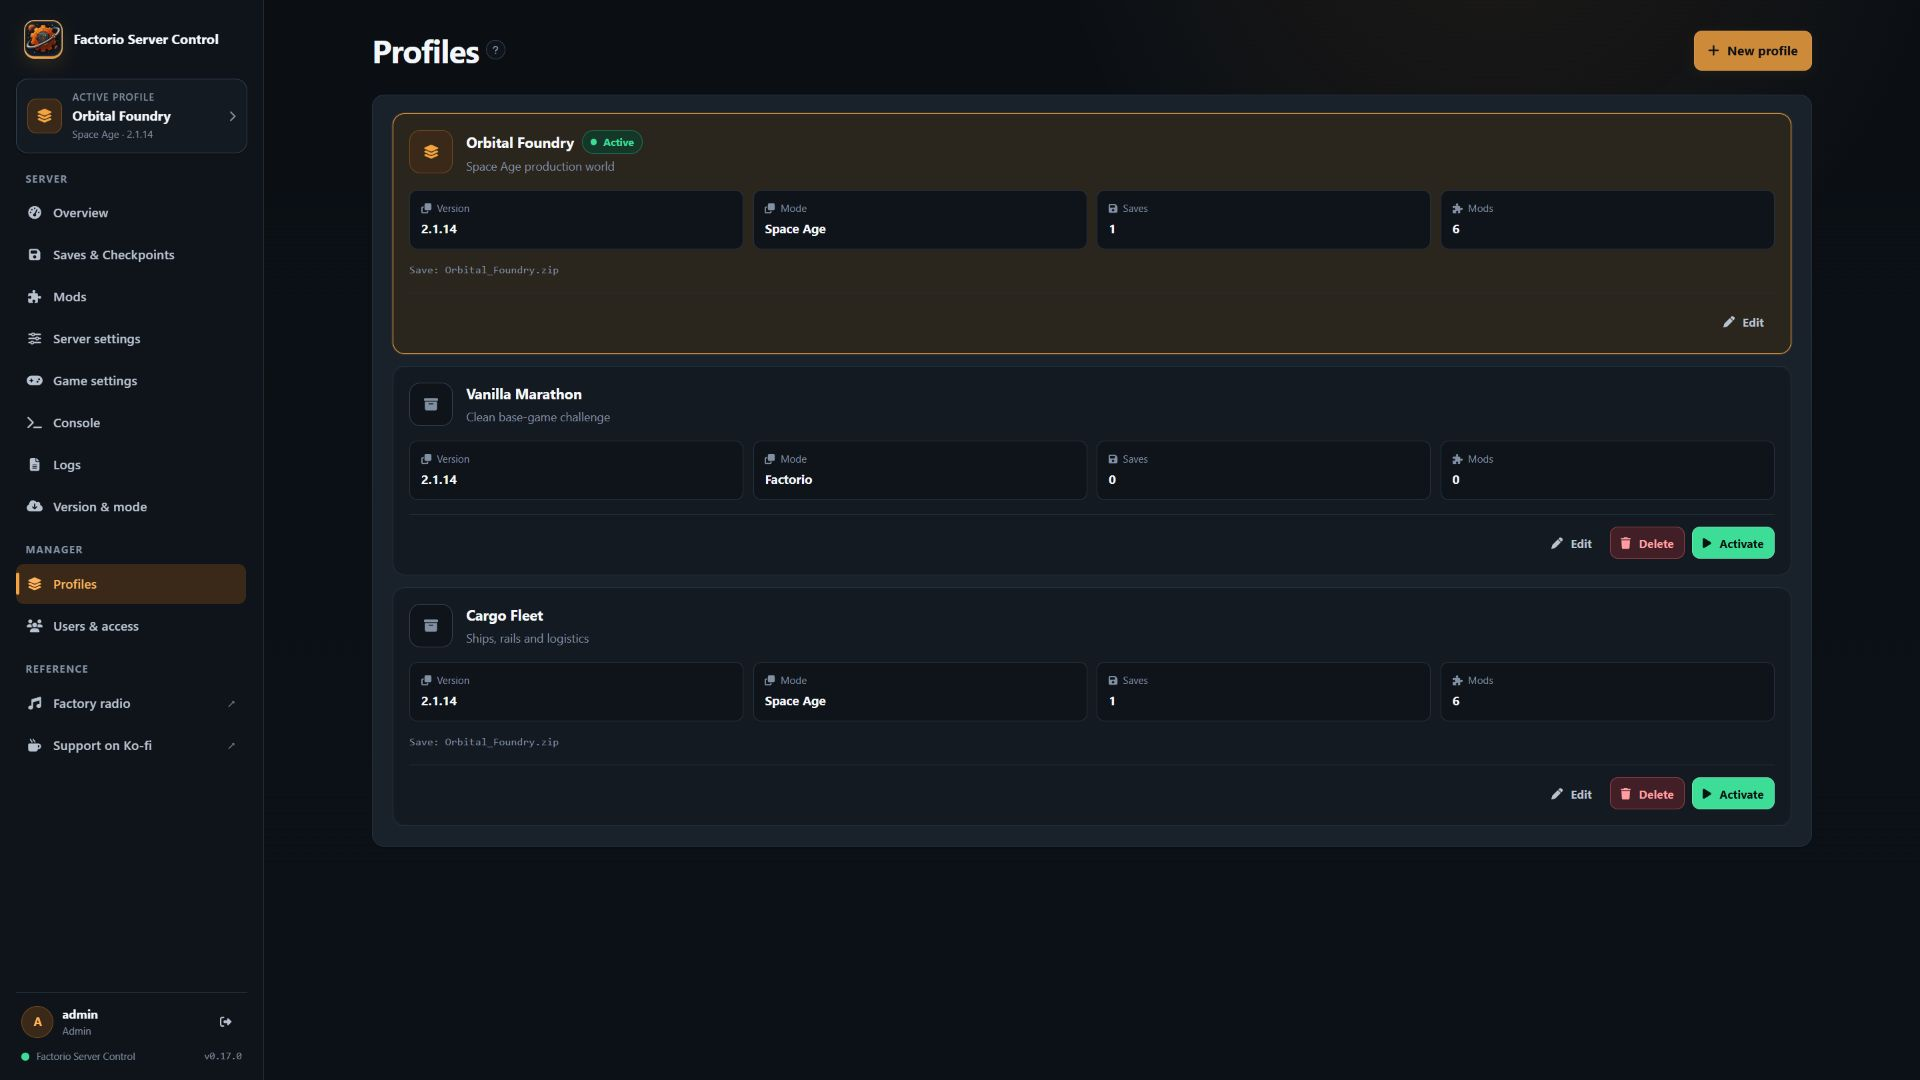
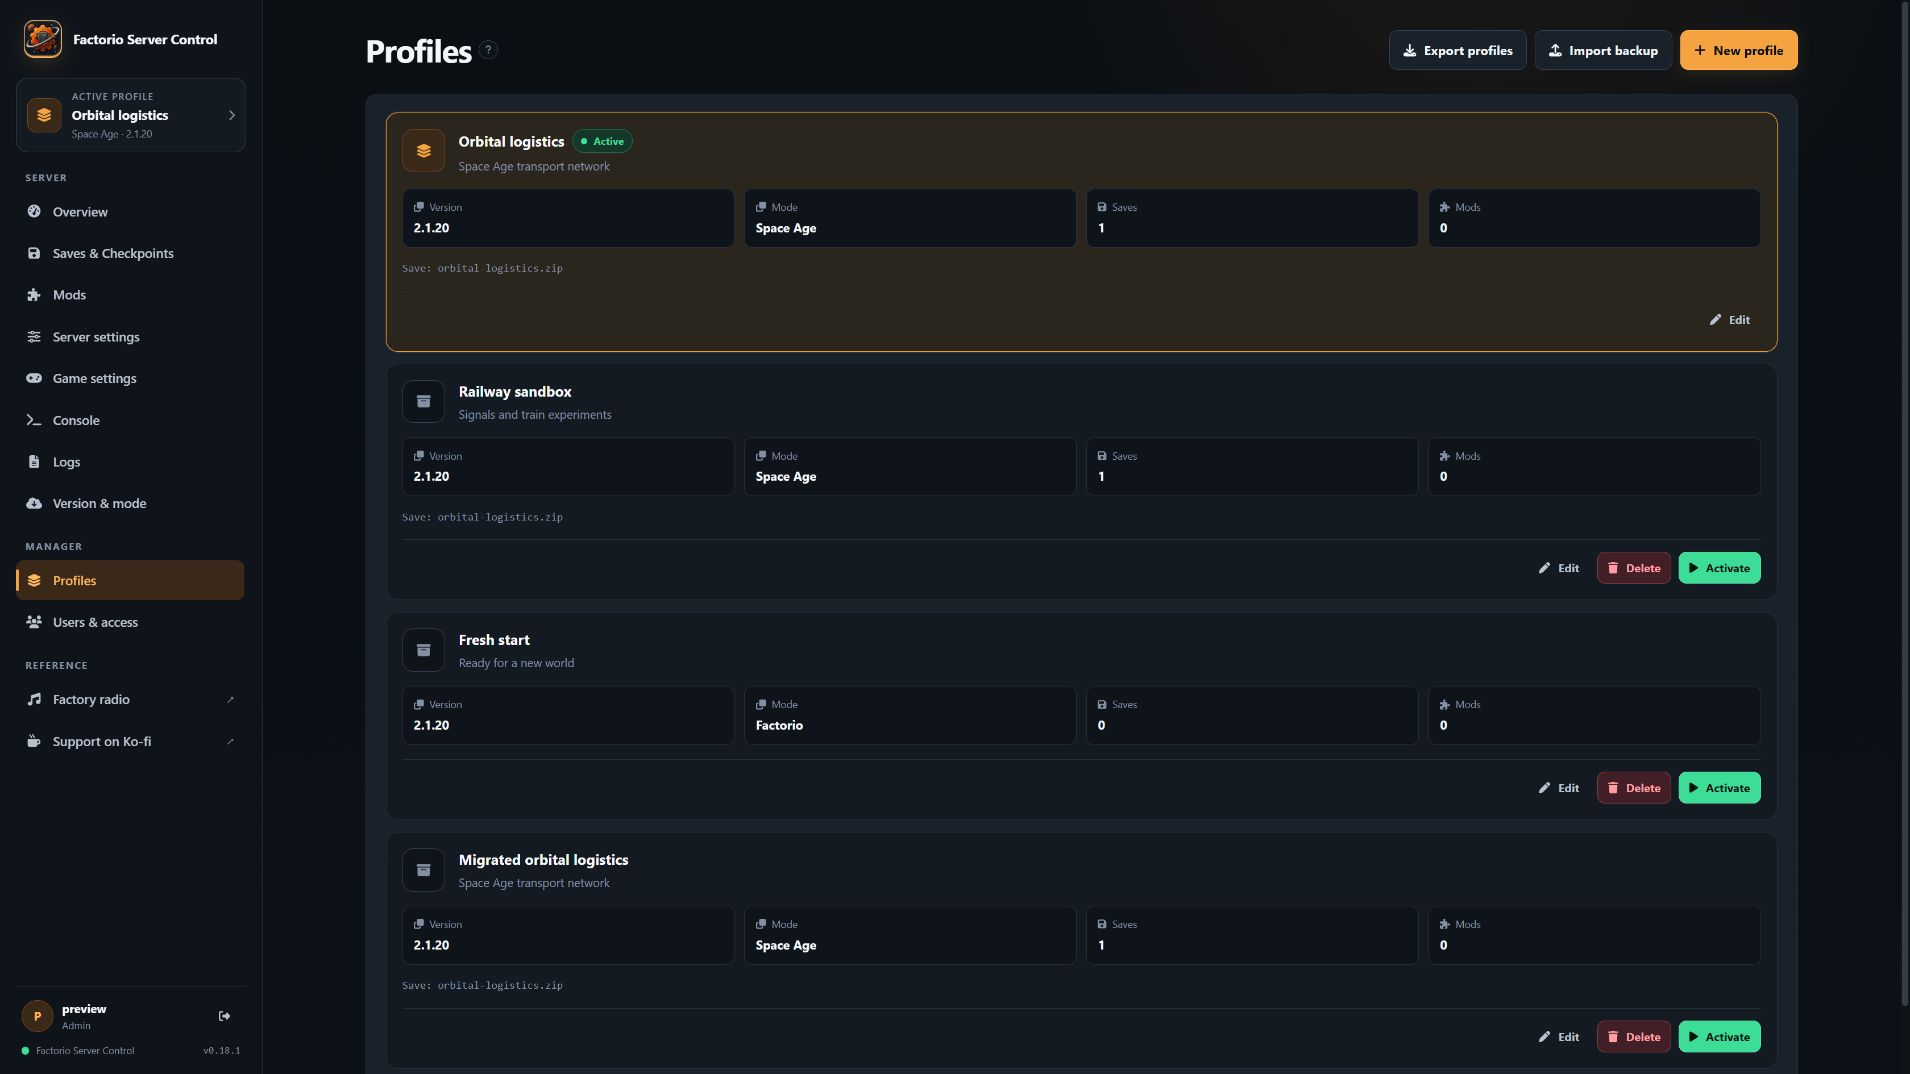
docs(backups): document portable migration and refresh profile screenshots

diff --git a/README.md b/README.md
@@ -31,6 +31,7 @@ A self-hosted web interface for operating one Factorio dedicated server safely: 
 - Automatic, idempotent migration of an existing installation into `Current setup`.
 - Profile cloning, clean-profile creation, rename, activation and deletion.
 - Transactional profile switching with staging, validation and rollback; switching never starts Factorio implicitly.
+- Portable profile backups with an import preview, conflict-safe names and optional saves/checkpoints. Imports create new inactive profiles without modifying the existing installation.
 
 ### Saves, worlds and checkpoints
 
@@ -62,6 +63,7 @@ A self-hosted web interface for operating one Factorio dedicated server safely: 
 - Recursive required-dependency resolution plus opt-in optional/recommended dependencies.
 - Profile-scoped startup-setting controls evaluated by the active profile's exact Factorio engine, including localized labels, constraints, defaults and safe reset actions.
 - Reusable mod packs and engine-verified import from an existing save, including worlds created on an older Factorio release and later upgraded to Space Age or a different mod set.
+- Restore existing **Download all** mod ZIPs, including enabled/disabled states and `mod-settings.dat`.
 
 ### Modern interface and deployment
 
@@ -75,6 +77,10 @@ A self-hosted web interface for operating one Factorio dedicated server safely: 
 The implementation details and deliberate boundaries are documented in [TECHNICAL-NOTES.md](TECHNICAL-NOTES.md). User-visible changes are recorded in [CHANGELOG.md](CHANGELOG.md).
 
 ## Screenshots
+
+### Profile backup and migration
+
+![Factorio Server Control profile backup preview](screenshots/Screenshot_Profile_Backup.png)
 
 ### Operational overview
 
@@ -176,6 +182,20 @@ On a fresh persistent manager-data volume, the manager creates a one-time admini
 ### Profiles
 
 The first profile-capable start copies an existing unprofiled setup into `Current setup`. Creating or activating another profile requires Factorio to be fully stopped. Activation snapshots the current setup, stages and validates the target, restores its exact game version and leaves the game stopped until **Start** is pressed.
+
+### Profile and mod backups
+
+Save and stop Factorio, then open **Profiles → Export profiles**. Select one, several or all profiles. Versions, modes, installed mod ZIPs, enabled states, `mod-settings.dat`, server settings and checkpoint schedules are included; save ZIPs and checkpoint files are optional. The active profile is exported from its current live files.
+
+On the destination manager, choose **Profiles → Import backup**, select the ZIP and preview it. Choose profiles and names, then import. Each receives a fresh ID and remains inactive. Existing profiles, the active game version and global autostart are unchanged. Activate an imported profile separately; the existing version-switch mechanism installs its recorded exact official Factorio version if necessary. Importing itself does not download or start Factorio.
+
+Server-settings passwords, usernames and tokens are removed. Manager users, sessions, portal/RCON credentials, host paths, engine files and reusable global mod packs are not exported. Imported profiles use the destination's bind address/port and have public/LAN listing disabled. Review credentials and visibility before starting them. Saves, player lists and opaque mod settings can still contain player names or custom mod data: **treat backup ZIPs as private**, not as shareable public archives.
+
+For older mod-only backups, use **Mods → Restore backup** with a ZIP made by **Download all**. The preview shows versions and enabled states. Confirmation replaces the active profile's mods and mod settings, including built-in DLC selections; saves and the installed engine version remain unchanged. Download the current mods first if you need to undo this. Missing configuration in older archives is handled with base Factorio and the archived community mods enabled; review the preview before restoring.
+
+Backup format 1 supports zipped mods, up to 256 profiles, 30,000 archive entries and 16 GiB total expanded outer-archive contents. Unpacked mod folders and unrelated files are not imported. The existing `FSM_MAX_UPLOAD` limit also applies (512 MiB by default, including multipart overhead; the backup endpoint caps it at 16 GiB). Export fewer profiles or omit saves/checkpoints if needed. Both hosts need temporary disk space for staging; an export can temporarily require approximately twice the selected data size. ZIPs with invalid paths, duplicates, incomplete saves or missing enabled mods are rejected before activation.
+
+These portable backups supplement full offline backups of `/opt/fsm-data` and the configured Factorio volumes. They do not replace them: full backups also preserve manager accounts, global settings and mod packs. Existing profile manifests and directory layouts stay at their current schema; no migration is required to install this feature.
 
 ### New worlds
 

diff --git a/TECHNICAL-NOTES.md b/TECHNICAL-NOTES.md
@@ -99,6 +99,16 @@ This design provides Vanilla, Space Age and large-modpack switching without extr
 
 The one-runtime boundary is per manager process, not per Docker host. Independent containers can run concurrently when every container has unique published TCP/UDP ports and completely separate manager and game-data mounts. The package-global server state, WebSocket status, RCON connection, profile locks and release operations make multiple Factorio child processes inside one manager unsupported.
 
+### Portable profile and mod backups
+
+- The ZIP contract is independently versioned (`kind: factorio-server-control-profile-backup`, `format_version: 1`, root `backup.json`); the installed profile manifest stays on schema 1.
+- Profile payloads are namespaced as `profiles/<source-id>/{saves,mods,config,checkpoints}`. Metadata includes the exact engine version, release target, selected save, built-in mods and checkpoint policy. Canonical configuration filenames are mapped to the destination's configured settings/admin paths.
+- Export takes the exclusive profile gate and reads the active directories directly, so it cannot use a stale active snapshot. Import validates a private staging directory, assigns fresh IDs, writes inactive snapshots and commits the manifest only once all selected profiles are ready. Failure removes only newly allocated data. Existing active IDs, runtime state and manager configuration are never rewritten.
+- Archives accept only portable relative paths and supported payload files, reject symlinks, case-colliding entries and file/directory collisions, and bound entries, expanded bytes, JSON and mod settings. Multipart data is removed on success and failure. Unknown format versions are rejected without migration.
+- Profile server-settings authentication fields are scrubbed on export and import. Imports disable public/LAN listing and reuse destination-local network bindings and `config.ini`. No source host paths or manager secrets are included. Opaque saves and mod settings are not anonymized.
+- Mod-only restore accepts the historical flat Download all layout (nested mod ZIPs plus `mod-list.json`/`mod-settings.dat`). It validates the set before the existing mount-safe directory-entry transaction and checks the expected active profile under lifecycle locking. It never renames a mounted directory or installs a Factorio release.
+- Backup operations are administrator-only POST routes. Copy/export/restore requires a stopped runtime; there is no automatic game stop or start. Profiles and mod-only imports intentionally have separate previews and confirmation semantics.
+
 ### Profile-aware UI state
 
 `ProfileProvider` loads the profile manifest once for the authenticated layout and exposes the active profile to all routed pages. Profile creation, activation, version changes, mode changes, save operations and mod refreshes explicitly refresh that shared state. The provider is presentation state only: backend locks and profile manifests remain authoritative, and an unavailable profile response is shown as an error context instead of silently treating data as global.

diff --git a/docker/README.md b/docker/README.md
@@ -95,6 +95,10 @@ Game-server autostart is configured inside **Server settings**. To run multiple 
 
 ## Migrate a legacy installation
 
+For a portable transfer between managers that support it, use [Profiles → Export profiles / Import backup](../README.md#profile-and-mod-backups). Imports add inactive profiles with new IDs; they do not replace manager accounts or the current profile. The existing `FSM_MAX_UPLOAD` setting controls incoming backup size (512 MiB by default). Ensure sufficient temporary/container disk space for ZIP staging, and review credentials and public/LAN listing before starting an imported profile. Older **Download all** mod ZIPs can be restored from **Mods → Restore backup**.
+
+For a full offline migration, including manager accounts and global configuration, continue with the volume-copy procedure below.
+
 The new public name does not rename compatibility-sensitive storage. The repository/image/executable namespace and default Unraid root deliberately remain `factorio-server-manager`; original Factorio Server Manager database/config filenames, `/opt/fsm-data`, `/opt/factorio` and `FSM_*` variables also remain stable. A stopped original deployment can therefore be migrated by copying its existing manager and Factorio data into the supported mappings; no branding-only rename or data conversion is required.
 
 The Unraid template's split layout maps the retained technical root as follows:

diff --git a/CHANGELOG.md b/CHANGELOG.md
@@ -5,6 +5,14 @@ The format is based on [Keep a Changelog](https://keepachangelog.com/en/1.0.0/).
 
 ## [Unreleased]
 
+### Added
+- Export selected or all profiles to a versioned backup ZIP, including exact Factorio versions, game modes, mods, startup settings and server settings, with optional saves and checkpoint files.
+- Preview and import profile backups as new inactive profiles with fresh IDs and editable names. Existing profiles, active runtime, storage layout and manager-wide settings remain unchanged.
+- Restore ZIPs made by Mods → Download all, with a preview and confirmation before replacing the active profile's mods and settings while Factorio is stopped.
+
+### Security
+- Profile exports exclude manager accounts, portal/RCON credentials, host-specific engine configuration and server-settings authentication fields. Imported profiles have public/LAN listing disabled until reviewed. Archive imports enforce portable paths, file/size limits, private staging and rollback.
+
 ### Changed
 - Formatted the Unraid Community Applications change history as readable version sections and bullet lists.
 
